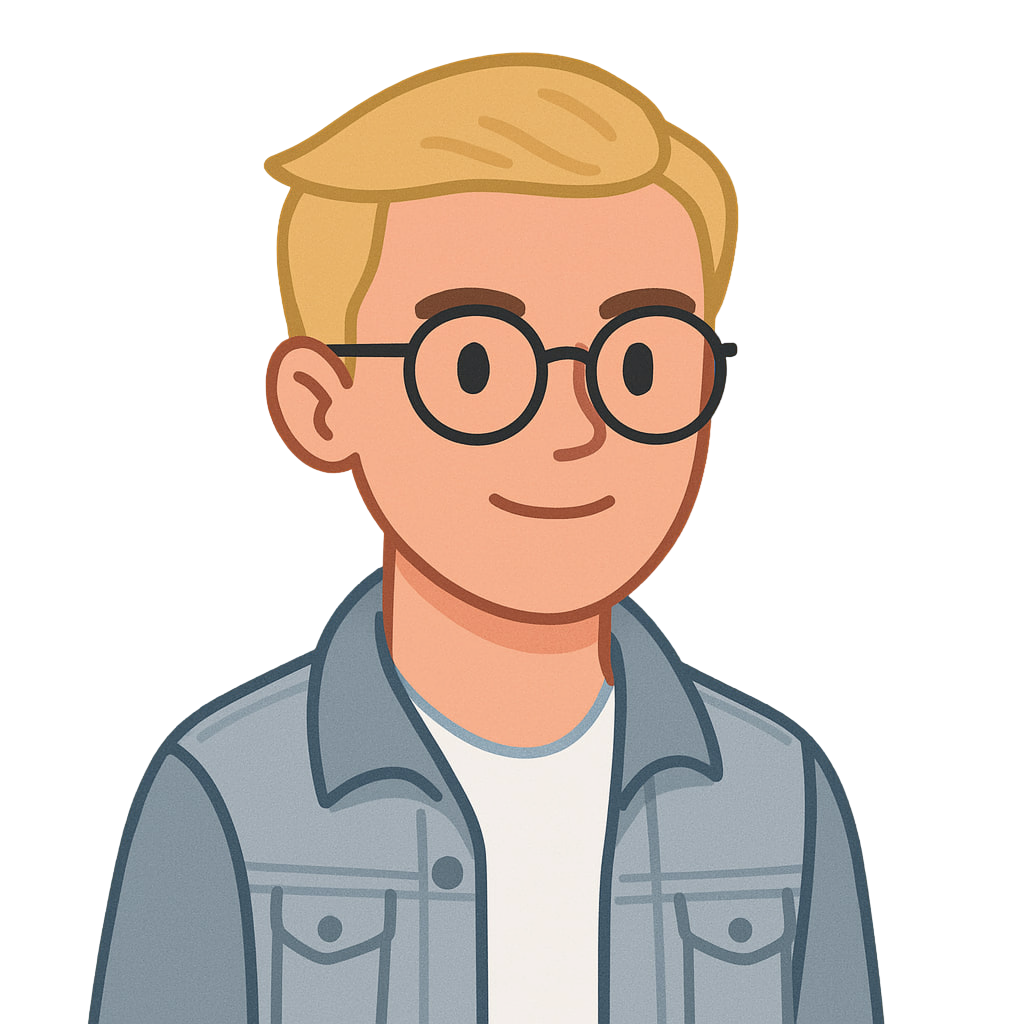
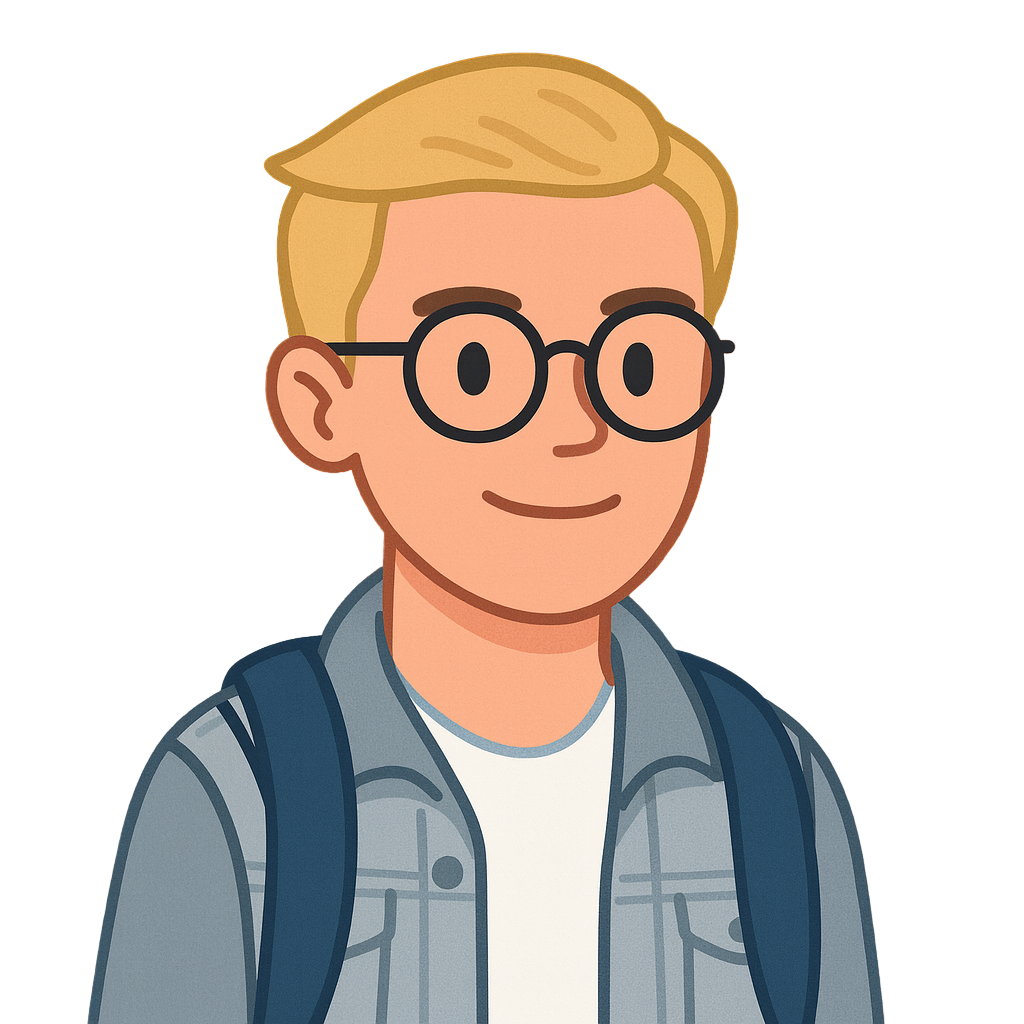
create base.png

diff --git a/site/templates/mentor_workspace.html b/site/templates/mentor_workspace.html
@@ -318,6 +318,17 @@
       border-color:#cfe0ff;
     }
 
+/* голубая «аура» на 1.4 с */
+@keyframes chatGlow {
+  0%   { box-shadow:0 0 0 0 rgba(42,119,255,.00);}
+  30%  { box-shadow:0 0 0 6px rgba(42,119,255,.20);}
+  80%  { box-shadow:0 0 0 3px rgba(42,119,255,.12);}
+  100% { box-shadow:0 0 0 0 rgba(42,119,255,.00);}
+}
+.chat-highlight-once{
+  animation:chatGlow 1.4s ease-out;
+}
+
     /* У активного чата ввод и кнопка полностью рабочие */
     .chat-card.chat-active .chat-input,
     .chat-card.chat-active .chat-send {
@@ -558,6 +569,13 @@
 
 /* Для whiteboard (wb-user / wb-teacher) */
 .wb-user.wb--in, .wb-teacher.wb--in { animation: msgIn .24s cubic-bezier(.22,.75,.25,1) both; }
+
+/* Уже была анимация msgIn, просто правильно подвяжем класс */
+.msg.msg--in{
+  animation: msgIn .35s cubic-bezier(.22,.75,.25,1) both;
+  transform-origin: 0 0;          /* teacher */
+}
+.msg.you.msg--in{transform-origin:100% 0;} /* пользователь */
 
 /* Индикация «печатает…» */
 .typing {
@@ -1130,8 +1148,15 @@ function applyChosenAvatar() {
 
       if (all) {
         // Постоянная активация чата
+        const wasDisabled = chatCard.classList.contains('chat-disabled');
         chatCard.classList.remove('chat-disabled');
         chatCard.classList.add('chat-active');
+
+        /* если только что перешли из disabled → active, вспыхнём */
+        if (wasDisabled) {
+          chatCard.classList.add('chat-highlight-once');
+          setTimeout(()=>chatCard.classList.remove('chat-highlight-once'), 1500);
+        }
 
         // На всякий случай, если были заблокированы атрибутами
         chatInput.disabled = false;
@@ -1207,7 +1232,7 @@ function hideTyping() {
       chatBody.appendChild(row);
       chatBody.scrollTop = chatBody.scrollHeight;
 
-      requestAnimationFrame(() => row.classList.add('chatBody--in'));
+      requestAnimationFrame(() => row.classList.add('msg--in'));
       row.addEventListener('animationend', () => row.classList.remove('chatBody--in'), { once: true });
 
     }
